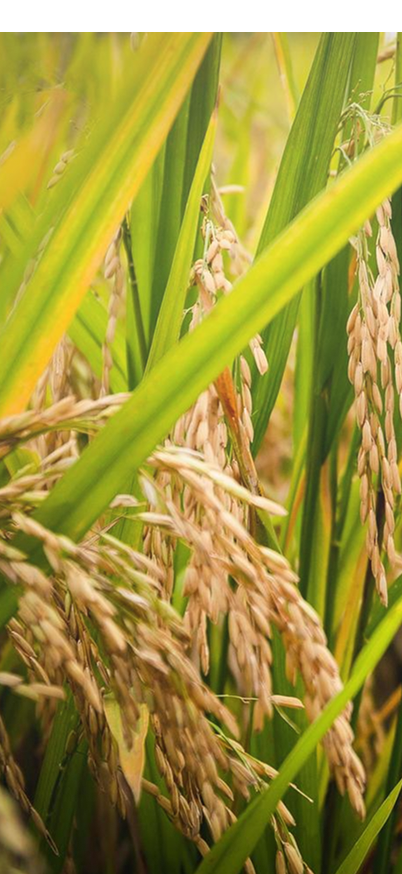
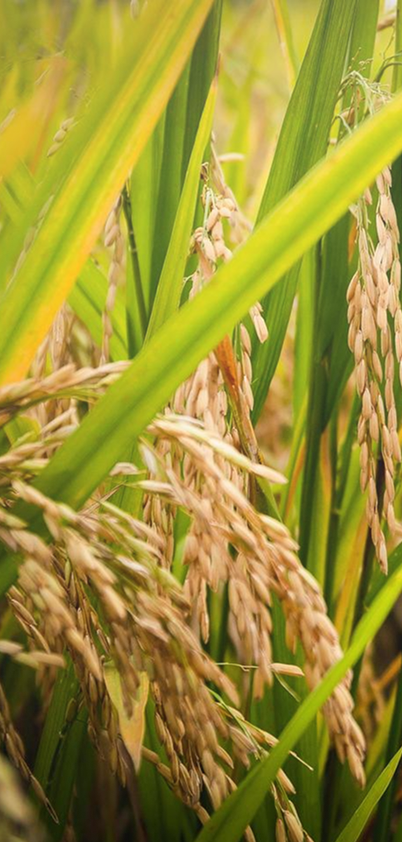
Enhance report handling and update pgAdmin configuration
- Implemented recent report filtering in ProvinceMap and useReports hooks to treat older sightings as resolved.
- Updated docker-compose to replace Adminer with pgAdmin, adjusting ports and environment variables accordingly.
- Added pgAdmin server configuration for easier database management.
- Changed logo asset format from PNG to SVG for better scalability.

diff --git a/admin-web/src/pages/Dashboard/ProvinceMap.tsx b/admin-web/src/pages/Dashboard/ProvinceMap.tsx
@@ -87,6 +87,16 @@ function buildWindyUrl(lat: number, lon: number, zoom: number) {
   return `https://embed.windy.com/embed2.html?${params.toString()}`
 }
 
+// Matches the farmer app's map: a sighting older than this is treated as
+// resolved and no longer pinned.
+const MAX_REPORT_AGE_MS = 14 * 24 * 60 * 60 * 1000
+
+function isRecent(dateSpotted: string): boolean {
+  const t = new Date(dateSpotted).getTime()
+  // An unparseable date is kept rather than silently dropped.
+  return Number.isNaN(t) || Date.now() - t <= MAX_REPORT_AGE_MS
+}
+
 function ProvinceMap({ latitude, longitude, label, reports = [] }: ProvinceMapProps) {
   const [mode, setMode] = useState<MapMode>('satellite')
   const containerRef = useRef<HTMLDivElement>(null)
@@ -94,7 +104,7 @@ function ProvinceMap({ latitude, longitude, label, reports = [] }: ProvinceMapPr
   const pinnableReports = useMemo(() => {
     // Rejected reports are hidden — they were reviewed and ruled out, so
     // they aren't a sighting anyone needs to see on the map.
-    const withCoords = reports.filter((r) => r.latitude != null && r.longitude != null && r.status !== 'rejected')
+    const withCoords = reports.filter((r) => r.latitude != null && r.longitude != null && r.status !== 'rejected' && isRecent(r.date_spotted))
     return spreadOverlappingReports(withCoords)
   }, [reports])
 

diff --git a/user-mobile/src/hooks/useReports.js b/user-mobile/src/hooks/useReports.js
@@ -6,6 +6,17 @@ import { useLanguage } from '../context/LanguageContext';
 import { haversineKm } from '../utils/geo';
 import { pestNames } from '../utils/pestNames';
 
+// A sighting only signals an active threat for a couple of weeks — older
+// ones are treated as resolved so stale pins don't make an area look infested.
+const MAX_REPORT_AGE_DAYS = 14;
+const MAX_REPORT_AGE_MS = MAX_REPORT_AGE_DAYS * 24 * 60 * 60 * 1000;
+
+function isRecent(dateSpotted) {
+  const t = new Date(dateSpotted).getTime();
+  // An unparseable date is kept rather than silently dropped.
+  return Number.isNaN(t) || Date.now() - t <= MAX_REPORT_AGE_MS;
+}
+
 const SEVERITY_LABEL = {
   low: 'Low Risk',
   medium: 'Medium Risk',
@@ -50,7 +61,7 @@ export function useReports() {
           // shouldn't alarm nearby farmers (it also never nudges the
           // forecast; see server-python/app/decision/report_anchor.py,
           // which applies the same verified-only rule server-side).
-          .filter((r) => r.status === 'verified')
+          .filter((r) => r.status === 'verified' && isRecent(r.date_spotted))
           .map((r) => {
             const guide = matchPestGuide(r.pest_type);
             const hasCoords = user?.latitude != null && r.latitude != null && r.longitude != null;

diff --git a/user-mobile/src/pages/Welcome.jsx b/user-mobile/src/pages/Welcome.jsx
@@ -6,7 +6,7 @@ import riceFieldImg from '../assets/rice-field.png';
 // padded original (logo-shield.png) leaves too much transparent margin once
 // a box is sized/spaced tightly around it, as both logo spots in this file
 // now are.
-import logoMarkImg from '../assets/logo-shield-mark.png';
+import logoMarkImg from '../assets/logo-shield-mark.svg';
 import { fetchMunicipalities } from '../api/client';
 import { useAuth } from '../context/AuthContext';
 import { useLanguage } from '../context/LanguageContext';
